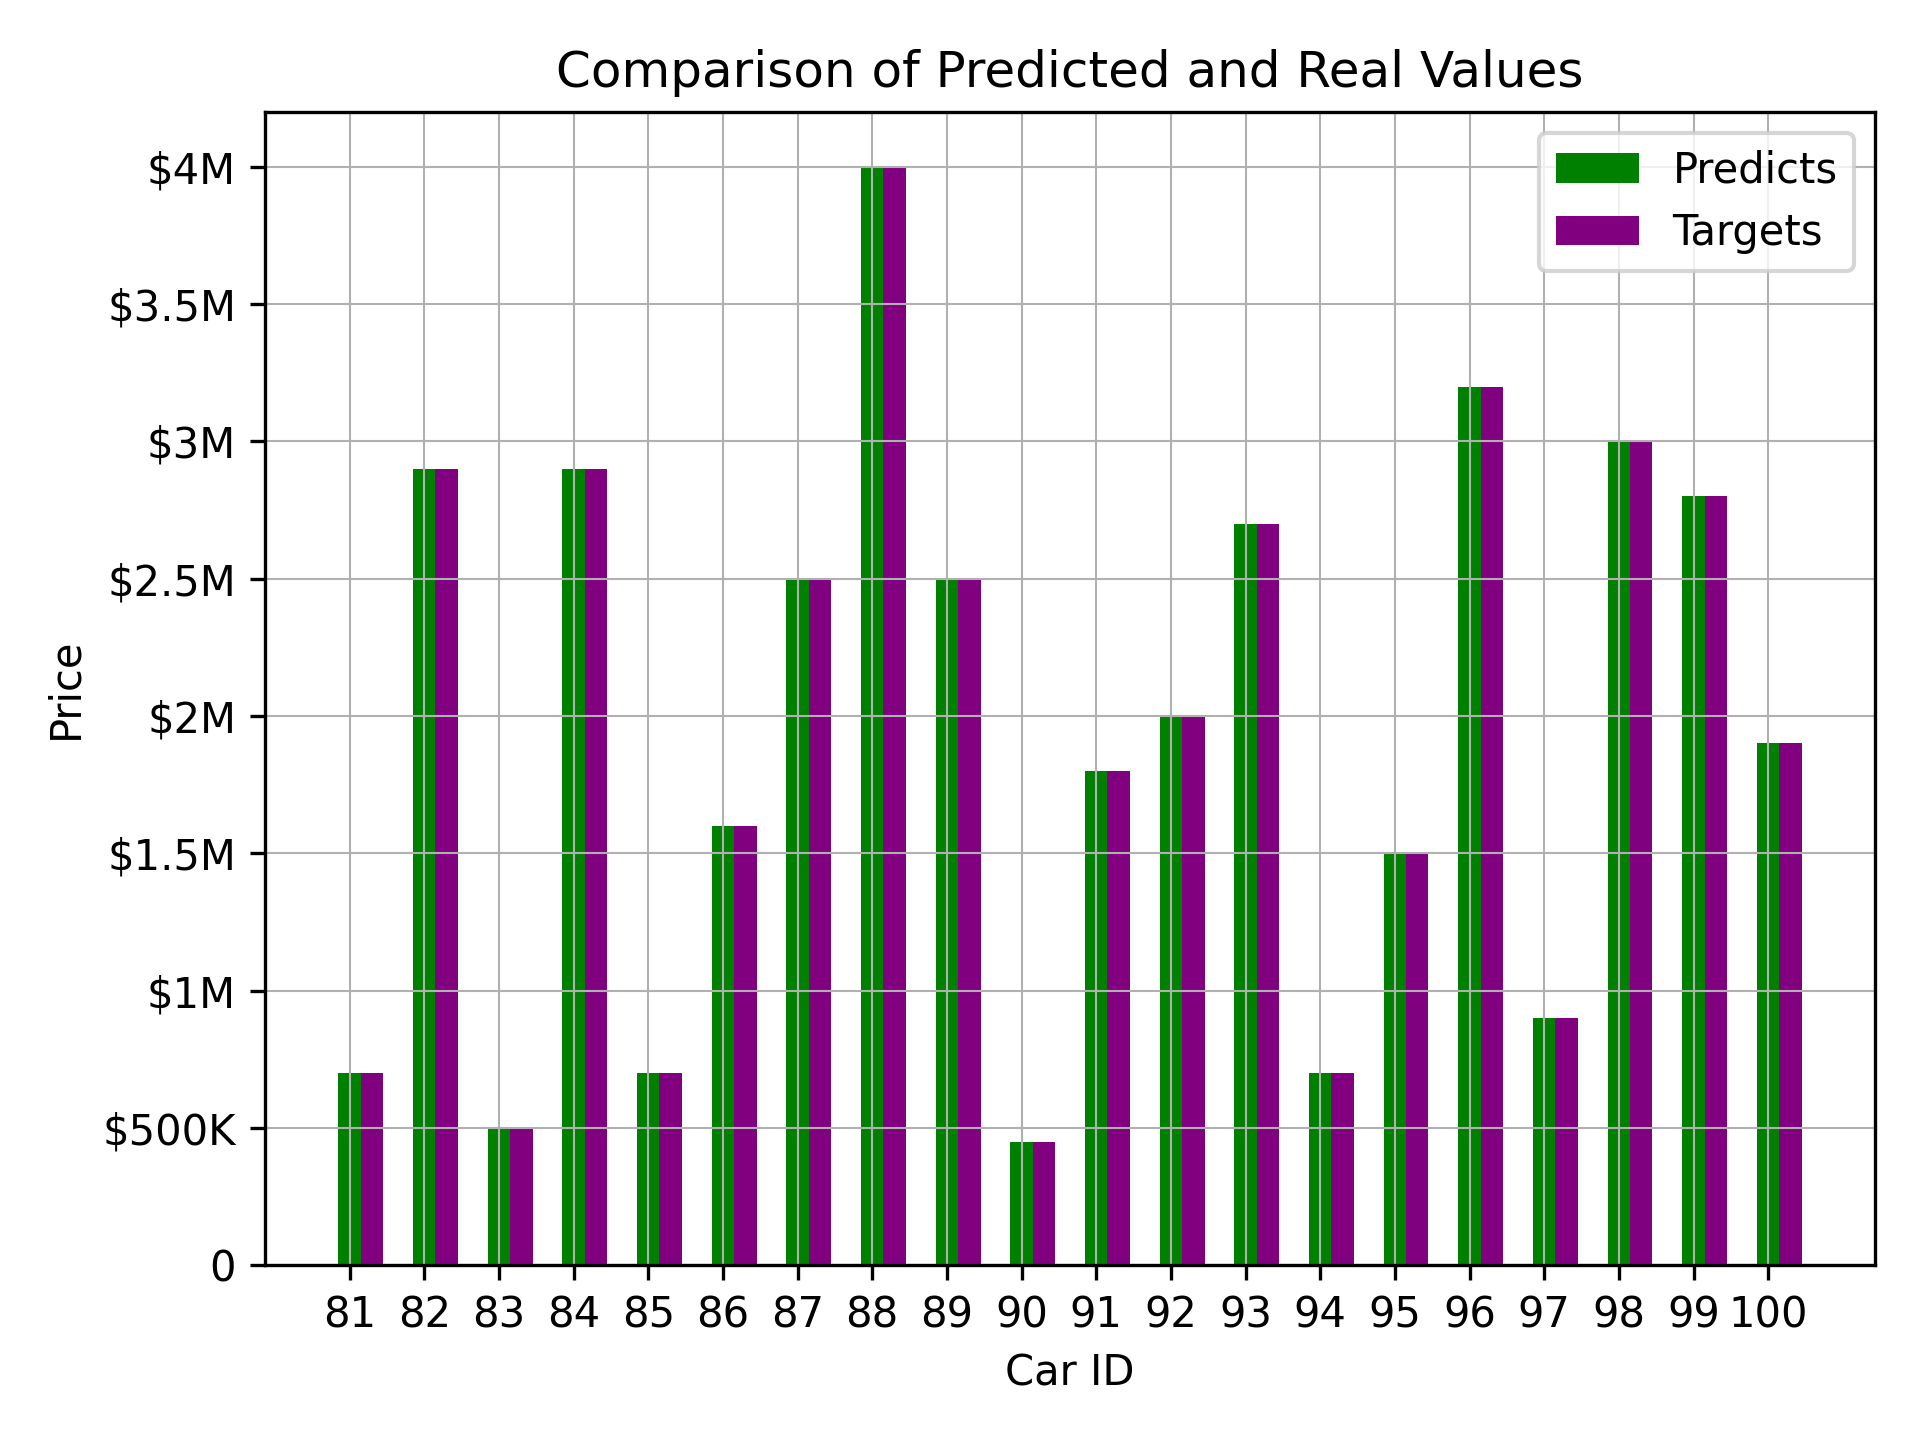
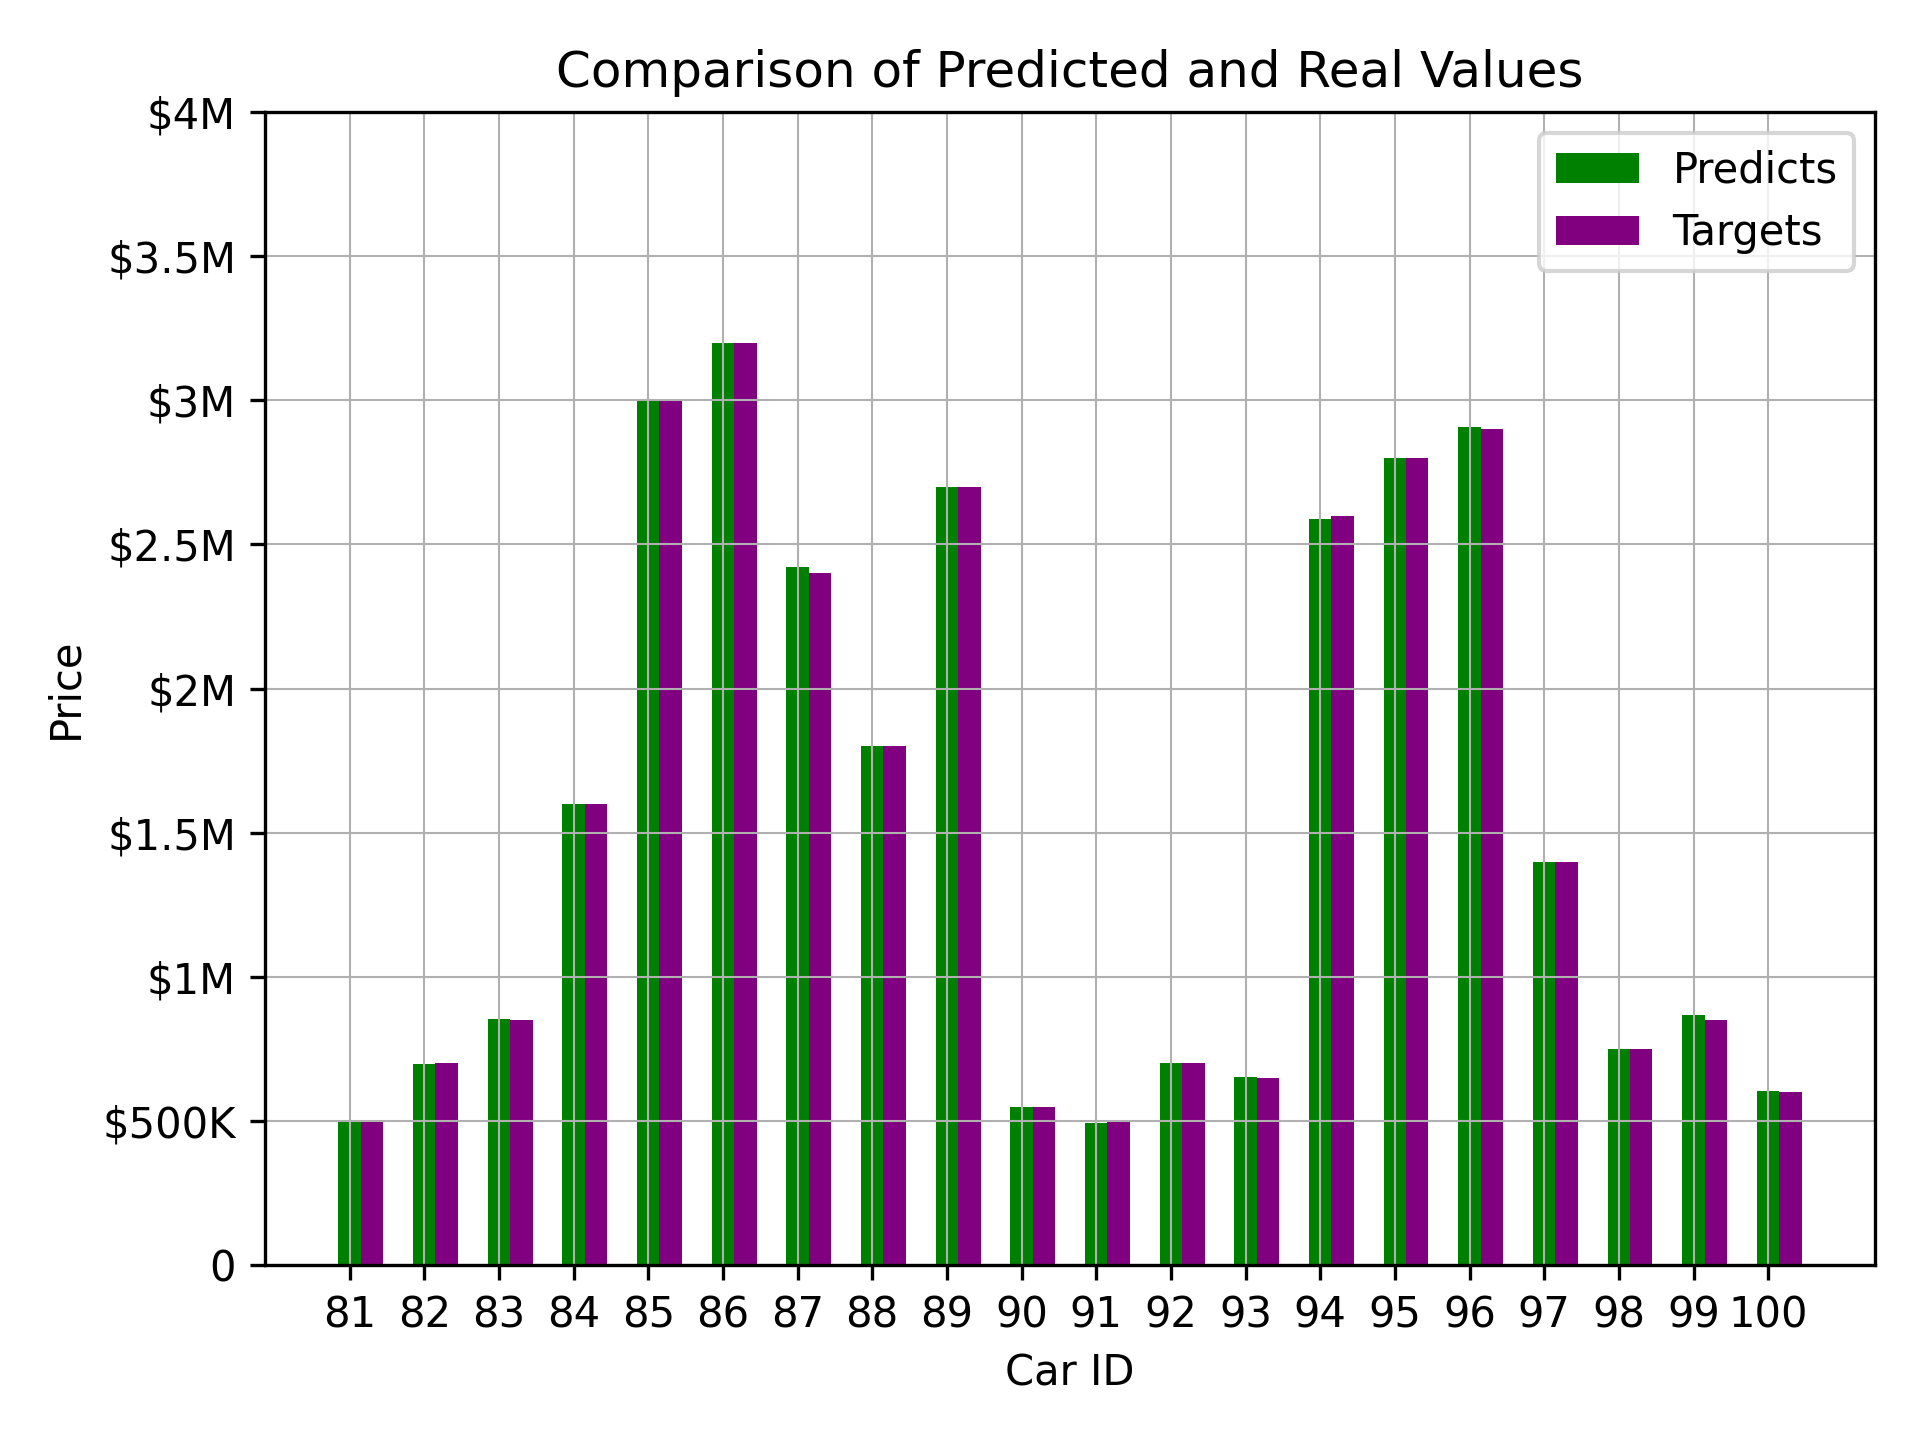
drop Price from features

diff --git a/model.py b/model.py
@@ -5,14 +5,12 @@ import torch.nn.functional as F
 class VehiclePriceIdentifier(nn.Module):
     def __init__(self):
         super().__init__()
-        self.fc1 = nn.Linear(in_features=12, out_features=16)
-        self.fc2 = nn.Linear(in_features=16, out_features=8)
-        self.fc3 = nn.Linear(in_features=8, out_features=1)
+        self.fc1 = nn.Linear(in_features=11, out_features=8)
+        self.fc2 = nn.Linear(in_features=8, out_features=1)
     
     def forward(self, x):
-        x = F.relu(self.fc1(x))
-        x = F.relu(self.fc2(x))
-        out = self.fc3(x)
+        x = F.sigmoid(self.fc1(x))
+        out = self.fc2(x)
         return out
     
     @property
